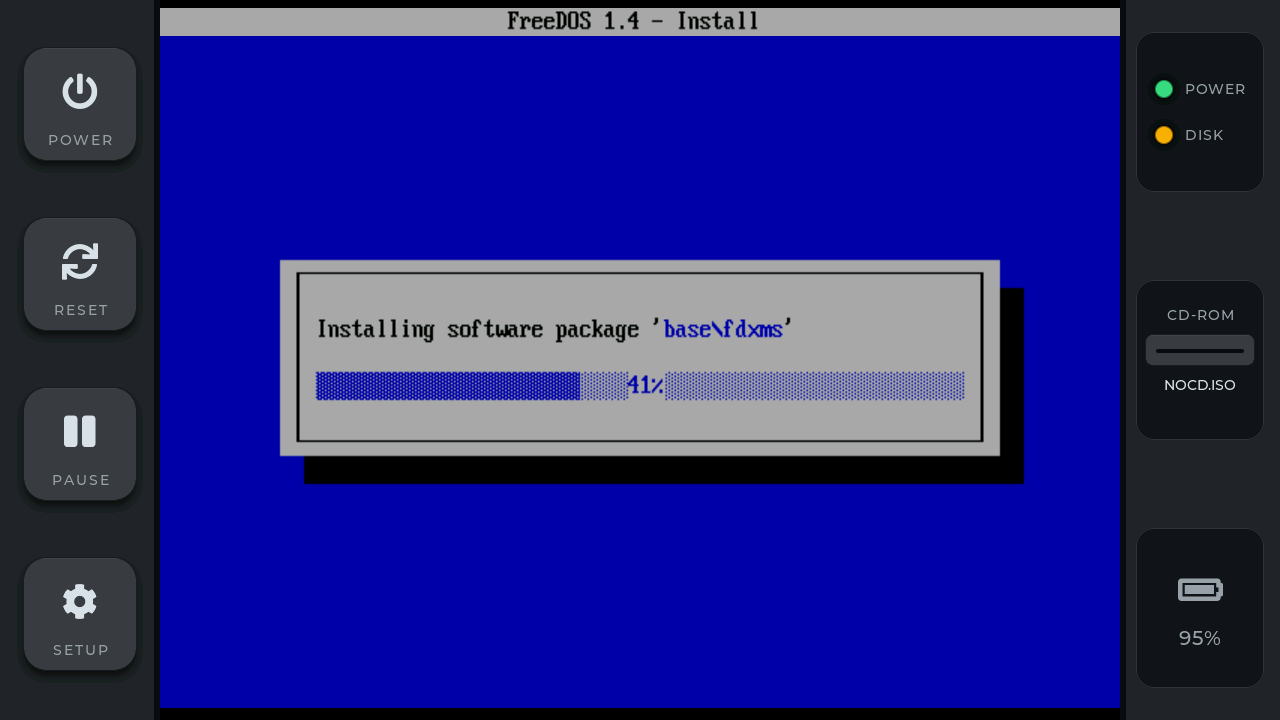
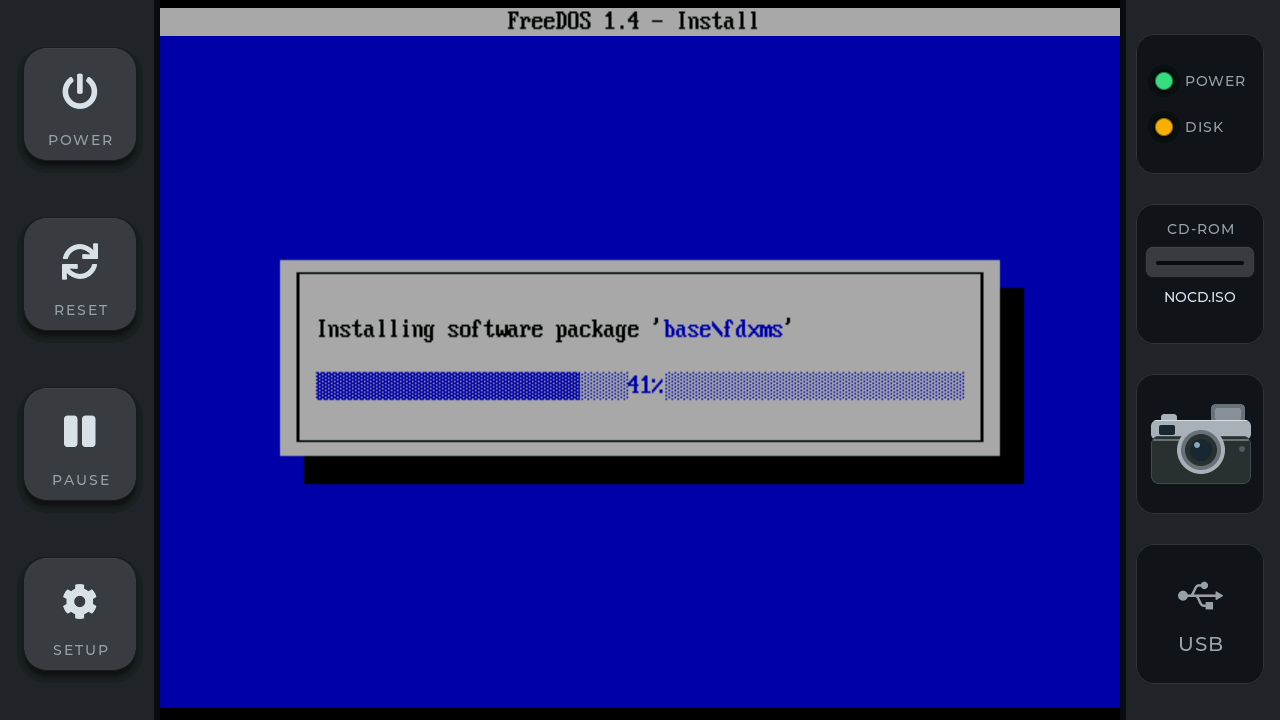
README: pictures with the new side panels; fewer FreeDOS screenshots
The top picture is now Sprig Linux 1.4.0 starting (its card at the end,
the side panels with the camera), taken on the Tab5, and stands for the
Linux section's too. FreeDOS's install progress is kept, its right panel
replaced by the new one (the disk light and the installer's CD as they were);
the installer's language screen, the first start and the help viewer are
gone. THIRD_PARTY_NOTICES.md lists the two screenshots left.

diff --git a/README.md b/README.md
@@ -5,7 +5,7 @@ PS/2 keyboard and mouse, a Sound Blaster 16, AdLib and PC speaker, IDE hard disk
 SeaBIOS. It runs DOS and Linux. On an empty SD card it downloads and installs FreeDOS or
 [Sprig Linux](https://github.com/yejun/sprig-linux) by itself; files are copied to it over Wi-Fi from a browser.
 
-![FreeDOS's first start on the Tab5, between the side panels](docs/images/first-boot.png)
+![Sprig Linux starting on the Tab5, between the side panels](docs/images/linux-boot.png)
 
 This is an independent project, not affiliated with or endorsed by M5Stack. It is provided as is (see `LICENSE`).
 
@@ -67,13 +67,11 @@ v3.x for later ones: `CHIP=postv3 tools/build.sh upload`. A build for the wrong 
    disk), your keyboard, **Plain DOS system**, and **Yes** to install. (The questions that default to No need Up,
    then Enter.)
 
-   ![FreeDOS's installer](docs/images/fd-language.png)
-
 3. Copying the packages takes about 20 minutes. When the installer asks to reboot, say yes: the Tab5 sets the
    machine up to start from its `C.IMG` alone, removes the installer's files from the card, and adjusts `C:\FDAUTO.BAT` for this
    PC (its CD-ROM driver; the Sound Blaster's `BLASTER` setting). FreeDOS then starts at the `C:\>` prompt.
 
-   ![Installing](docs/images/fd-progress.png)
+   ![FreeDOS installing, between the side panels](docs/images/fd-progress.png)
 
 **Other ways to start:**
 
@@ -101,9 +99,7 @@ PC running, then into the new machine.
   PC (about 10 MB downloaded, 140 MB on the card), every file checked against the release's checksums. It starts
   with a graphics console (800 x 600); the machine's settings file says how to use the text console instead.
   Installing Linux again with the same name updates it: its kernel and loader are replaced, its disk (`root.img`,
-  your files) is kept.
-
-  ![Sprig Linux starting on the Tab5, between the side panels](docs/images/linux-boot.png)
+  your files) is kept. (Its start is the picture at the top of this page.)
 
 - **ISO**: a PC that starts from an installer CD. Copy the CD's `.iso` to the root of the card first (the web page's
   SD card tab), then choose it in the dialog (the machine's name is suggested from it). The new machine gets an empty
@@ -116,8 +112,6 @@ install fails, the screen says why, and a tap goes back to the machine there was
 `machine <file>`, `install dos <name>`, `install linux <name>`, `install iso <name> [<file>.iso]`.
 
 ## Using it
-
-![FreeDOS's help viewer](docs/images/help.png)
 
 **The Tab5 Keyboard.** Aa, Ctrl and Alt are the PC's Shift, Ctrl and Alt. Sym is a layer (never sent to the PC):
 

diff --git a/THIRD_PARTY_NOTICES.md b/THIRD_PARTY_NOTICES.md
@@ -15,7 +15,8 @@ sources at the versions given. This list was put together with care, but it is n
 | `vendor/patches/0005`, `0006`, `0007`, `0009`-`0016`, `0019`, `0021`, `0022` (`pc.c`) | changes to tiny386's `i386.c`, `fpu.c`, `pc.c` (with their code as context) | BSD-3-Clause | (c) 2024-2025 Chunhui He | `LICENSES/BSD-3-Clause-tiny386.txt` |
 | `vendor/patches/0002`-`0004`, `0018` (`vga.c`), `0005`, `0020` (`i8257.c`), `0007` (`i8254.c`), `0017` (`sb16.c`), `0021` (`ide.c`, `ide.h`), `0022` (`i8042.c`, `i8042.h`) | changes to tiny386 files from QEMU (with their code as context) | MIT | `vga.c`, `i8254.c`, `ide.c`, `i8042.c`: (c) 2003-2017 / 2003-2004 / 2003-2016 / 2003 Fabrice Bellard; `i8257.c`: (c) 2003-2004 Vassili Karpov (malc); `sb16.c`: (c) 2003-2005 Vassili Karpov (malc) | `LICENSES/MIT-tiny386-QEMU.txt` |
 | `vendor/patches/esp-hosted/0001-sdio-rx-without-asserts.patch` | a change to ESP-Hosted's `sdio_drv.c` (with its code as context); it also adds a notice of the change to the file | Apache-2.0 | (c) 2024-2026 Espressif Systems (Shanghai) CO LTD | `LICENSES/Apache-2.0.txt` |
-| `docs/images/fd-*.png`, `first-boot.png`, `help.png` | screenshots of FreeDOS 1.4 and its programs running in this emulator | the shown software's own (FreeDOS: GPL and other free licenses) | their authors | see [freedos.org](https://www.freedos.org/) |
+| `docs/images/fd-progress.png` | a screenshot of FreeDOS 1.4's installer running in this emulator | the shown software's own (FreeDOS: GPL and other free licenses) | their authors | see [freedos.org](https://www.freedos.org/) |
+| `docs/images/linux-boot.png` | a screenshot of Sprig Linux starting in this emulator: the Linux kernel's messages and its boot logo (the penguin, Tux, by Larry Ewing), BusyBox | GPL-2.0 (the kernel and its logo, BusyBox) | the Linux kernel's and BusyBox's authors | see [kernel.org](https://www.kernel.org/), [Sprig Linux](https://github.com/yejun/sprig-linux) |
 
 This project's changes in the patch files are offered under the license of the file they change.
 
